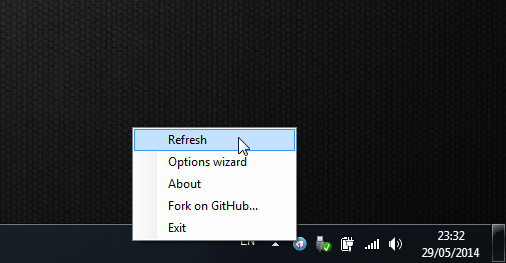
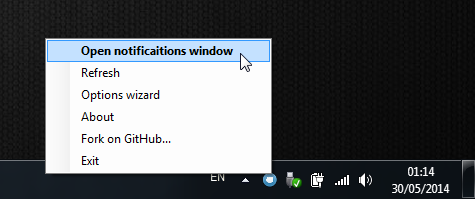
New menu option + screenshot

Changed region(s): [[0.0, 0.1809, 1.0, 1.0], [0.3242, 0.7538, 0.5011, 0.8141]]

diff --git a/GithubIssueNotifier/MainUI.Designer.cs b/GithubIssueNotifier/MainUI.Designer.cs
@@ -33,9 +33,10 @@
             this.contextMenu = new System.Windows.Forms.ContextMenuStrip(this.components);
             this.refreshToolStripMenuItem = new System.Windows.Forms.ToolStripMenuItem();
             this.optionsToolStripMenuItem = new System.Windows.Forms.ToolStripMenuItem();
-            this.exitToolStripMenuItem = new System.Windows.Forms.ToolStripMenuItem();
             this.aboutToolStripMenuItem = new System.Windows.Forms.ToolStripMenuItem();
             this.forkOnGitHubToolStripMenuItem = new System.Windows.Forms.ToolStripMenuItem();
+            this.exitToolStripMenuItem = new System.Windows.Forms.ToolStripMenuItem();
+            this.openNotificaitionsWindowToolStripMenuItem = new System.Windows.Forms.ToolStripMenuItem();
             this.contextMenu.SuspendLayout();
             this.SuspendLayout();
             // 
@@ -48,43 +49,51 @@
             // contextMenu
             // 
             this.contextMenu.Items.AddRange(new System.Windows.Forms.ToolStripItem[] {
+            this.openNotificaitionsWindowToolStripMenuItem,
             this.refreshToolStripMenuItem,
             this.optionsToolStripMenuItem,
             this.aboutToolStripMenuItem,
             this.forkOnGitHubToolStripMenuItem,
             this.exitToolStripMenuItem});
             this.contextMenu.Name = "contextMenu";
-            this.contextMenu.Size = new System.Drawing.Size(165, 136);
+            this.contextMenu.Size = new System.Drawing.Size(227, 158);
             // 
             // refreshToolStripMenuItem
             // 
             this.refreshToolStripMenuItem.Name = "refreshToolStripMenuItem";
-            this.refreshToolStripMenuItem.Size = new System.Drawing.Size(164, 22);
+            this.refreshToolStripMenuItem.Size = new System.Drawing.Size(220, 22);
             this.refreshToolStripMenuItem.Text = "&Refresh";
             // 
             // optionsToolStripMenuItem
             // 
             this.optionsToolStripMenuItem.Name = "optionsToolStripMenuItem";
-            this.optionsToolStripMenuItem.Size = new System.Drawing.Size(164, 22);
+            this.optionsToolStripMenuItem.Size = new System.Drawing.Size(220, 22);
             this.optionsToolStripMenuItem.Text = "&Options wizard";
-            // 
-            // exitToolStripMenuItem
-            // 
-            this.exitToolStripMenuItem.Name = "exitToolStripMenuItem";
-            this.exitToolStripMenuItem.Size = new System.Drawing.Size(164, 22);
-            this.exitToolStripMenuItem.Text = "E&xit";
             // 
             // aboutToolStripMenuItem
             // 
             this.aboutToolStripMenuItem.Name = "aboutToolStripMenuItem";
-            this.aboutToolStripMenuItem.Size = new System.Drawing.Size(164, 22);
+            this.aboutToolStripMenuItem.Size = new System.Drawing.Size(220, 22);
             this.aboutToolStripMenuItem.Text = "&About";
             // 
             // forkOnGitHubToolStripMenuItem
             // 
             this.forkOnGitHubToolStripMenuItem.Name = "forkOnGitHubToolStripMenuItem";
-            this.forkOnGitHubToolStripMenuItem.Size = new System.Drawing.Size(164, 22);
+            this.forkOnGitHubToolStripMenuItem.Size = new System.Drawing.Size(220, 22);
             this.forkOnGitHubToolStripMenuItem.Text = "Fork on &GitHub...";
+            // 
+            // exitToolStripMenuItem
+            // 
+            this.exitToolStripMenuItem.Name = "exitToolStripMenuItem";
+            this.exitToolStripMenuItem.Size = new System.Drawing.Size(220, 22);
+            this.exitToolStripMenuItem.Text = "E&xit";
+            // 
+            // openNotificaitionsWindowToolStripMenuItem
+            // 
+            this.openNotificaitionsWindowToolStripMenuItem.Font = new System.Drawing.Font("Segoe UI", 9F, System.Drawing.FontStyle.Bold);
+            this.openNotificaitionsWindowToolStripMenuItem.Name = "openNotificaitionsWindowToolStripMenuItem";
+            this.openNotificaitionsWindowToolStripMenuItem.Size = new System.Drawing.Size(226, 22);
+            this.openNotificaitionsWindowToolStripMenuItem.Text = "Open notificaitions window";
             // 
             // MainUI
             // 
@@ -108,6 +117,7 @@
         private System.Windows.Forms.ToolStripMenuItem optionsToolStripMenuItem;
         private System.Windows.Forms.ToolStripMenuItem aboutToolStripMenuItem;
         private System.Windows.Forms.ToolStripMenuItem forkOnGitHubToolStripMenuItem;
+        private System.Windows.Forms.ToolStripMenuItem openNotificaitionsWindowToolStripMenuItem;
     }
 }
 

diff --git a/GithubIssueNotifier/MainUI.cs b/GithubIssueNotifier/MainUI.cs
@@ -19,6 +19,7 @@ namespace GithubIssueNotifier
             this.StartInTray();
             this.notifyIcon.Text = "GitHub Issues Notifier";
             this.notifyIcon.Click += notifyIcon_Click;
+            this.openNotificaitionsWindowToolStripMenuItem.Click += openNotificaitionsWindowToolStripMenuItem_Click;
             this.refreshToolStripMenuItem.Click += refreshToolStripMenuItem_Click;
             this.optionsToolStripMenuItem.Click += optionsToolStripMenuItem_Click;
             this.exitToolStripMenuItem.Click += exitToolStripMenuItem_Click;
@@ -46,6 +47,11 @@ namespace GithubIssueNotifier
         }
 
         #region Menu actions
+
+        private void openNotificaitionsWindowToolStripMenuItem_Click(object sender, EventArgs e)
+        {
+            this.openNotificationsWindow();
+        }
 
         private void refreshToolStripMenuItem_Click(object sender, EventArgs e)
         {
@@ -108,24 +114,30 @@ namespace GithubIssueNotifier
 
         private void notifyIcon_Click(object sender, EventArgs e)
         {
+            if (((MouseEventArgs)e).Button == System.Windows.Forms.MouseButtons.Left)
+            {
+                this.openNotificationsWindow();
+            }
+        }
+
+        private void openNotificationsWindow()
+        {
             if (this.isActiveWindow)
             {
                 this.notificationsWindow.BringToFront();
             }
             else
             {
-                if (((MouseEventArgs)e).Button == System.Windows.Forms.MouseButtons.Left)
-                {
-                    //Point p = Control.MousePosition;
 
-                    this.notificationsWindow = new NotificationsWindow() { StartPosition = FormStartPosition.Manual };
-                    this.notificationsWindow.Show();
-                    int x = Screen.PrimaryScreen.WorkingArea.Width - this.notificationsWindow.Width;
-                    int y = Screen.PrimaryScreen.WorkingArea.Height - this.notificationsWindow.Height;
-                    this.notificationsWindow.Bounds = new Rectangle(x, y, this.notificationsWindow.Width, this.notificationsWindow.Height);
-                    this.notificationsWindow.FormClosed += this.notificationsWindow_FormClosed;
-                    this.isActiveWindow = true;
-                }
+                //Point p = Control.MousePosition;
+
+                this.notificationsWindow = new NotificationsWindow() { StartPosition = FormStartPosition.Manual };
+                this.notificationsWindow.Show();
+                int x = Screen.PrimaryScreen.WorkingArea.Width - this.notificationsWindow.Width;
+                int y = Screen.PrimaryScreen.WorkingArea.Height - this.notificationsWindow.Height;
+                this.notificationsWindow.Bounds = new Rectangle(x, y, this.notificationsWindow.Width, this.notificationsWindow.Height);
+                this.notificationsWindow.FormClosed += this.notificationsWindow_FormClosed;
+                this.isActiveWindow = true;
             }
         }
 
